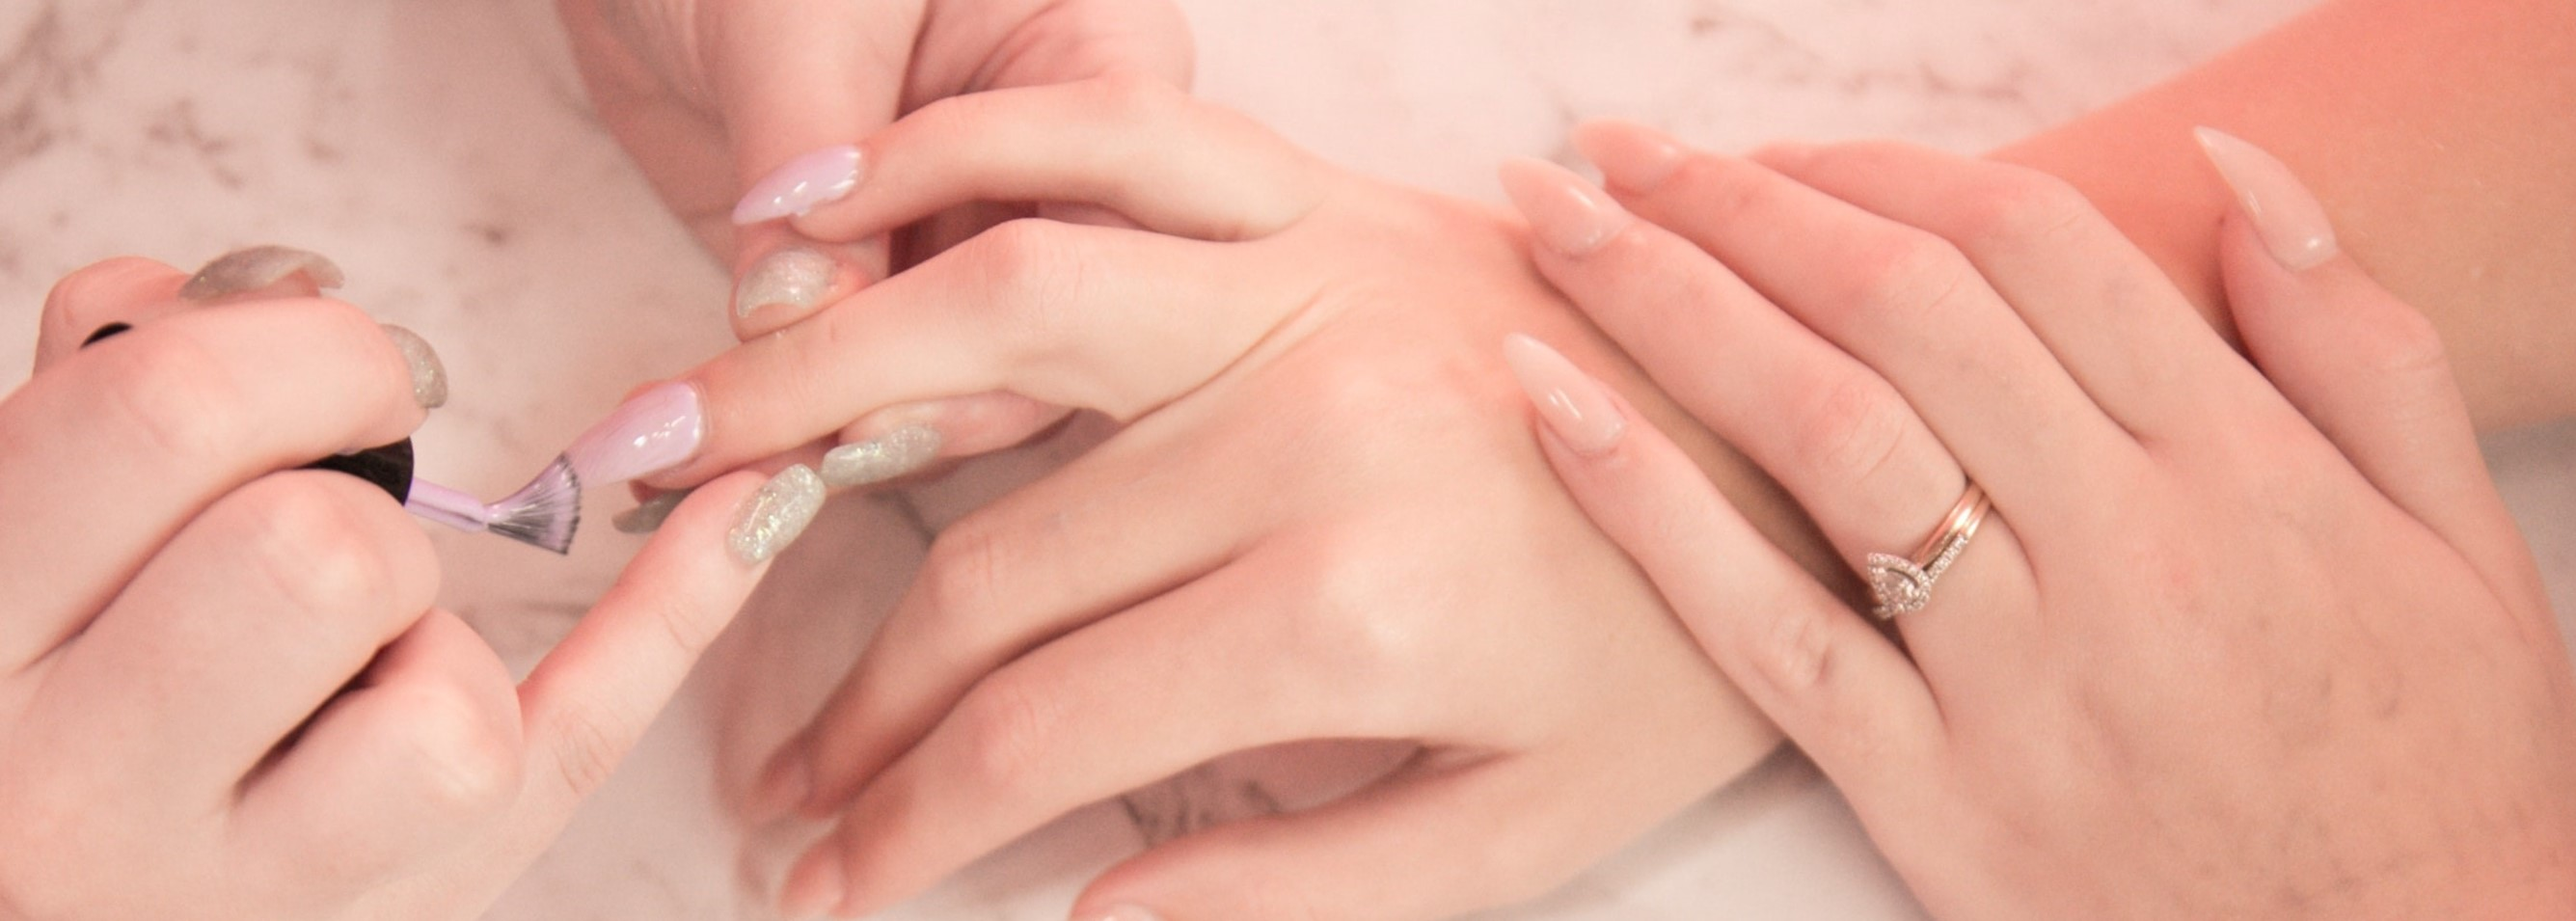
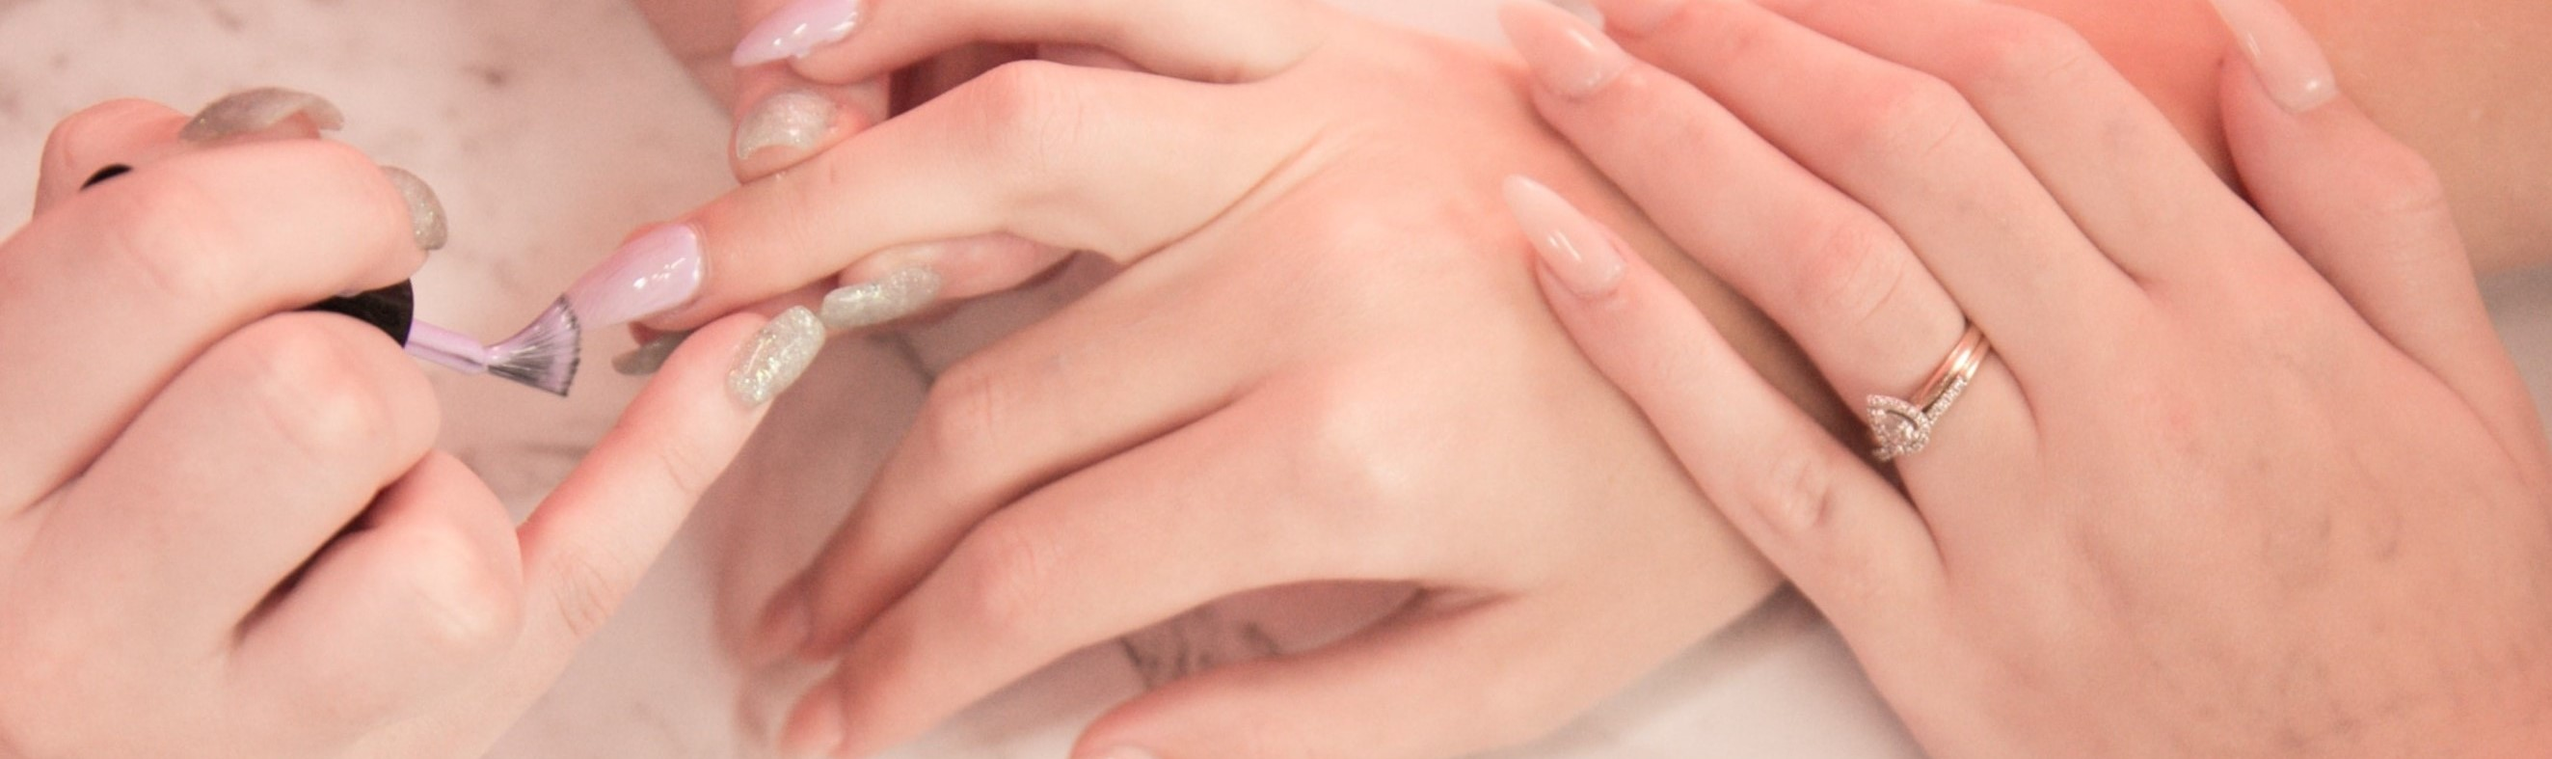
Include hero-image on homepage.html

diff --git a/templates/base.html b/templates/base.html
@@ -21,7 +21,6 @@
         <script src="https://cdn.jsdelivr.net/npm/bootstrap@5.1.3/dist/js/bootstrap.min.js" integrity="sha384-QJHtvGhmr9XOIpI6YVutG+2QOK9T+ZnN4kzFN1RtK3zEFEIsxhlmWl5/YESvpZ13" crossorigin="anonymous"></script>
         <!-- Font Awesome -->
         <script src="https://kit.fontawesome.com/b690598c3f.js" crossorigin="anonymous"></script>
-
         <!-- CSS -->
         <link rel="stylesheet" type="text/css" href="{% static 'css/style.css' %}"/>
     </head>

diff --git a/static/css/style.css b/static/css/style.css
@@ -78,6 +78,15 @@ i:hover {
 
 /* Homepage */
 
+.hero-image {
+    background: url(../images/hero-image.jpg);
+    height: 400px;
+    width: 100%;
+    background-size: cover;
+    overflow: hidden;
+}
+
+
 /* Buttons */
 
 button {
